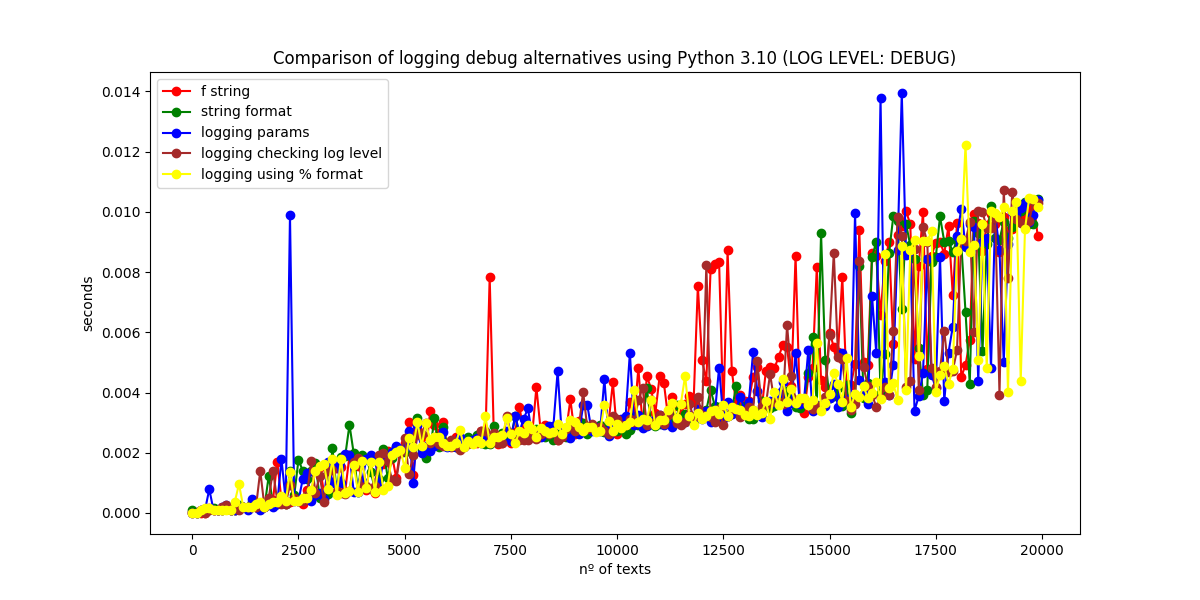
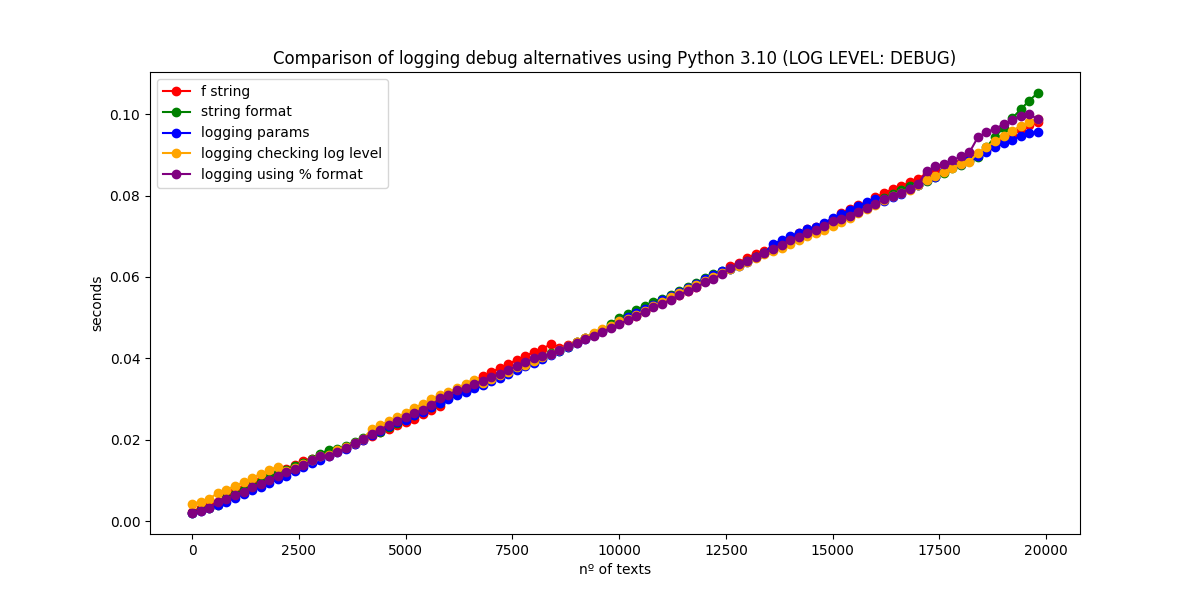
adding moving average method and ways to sum elements inside a list

diff --git a/summing_list_benchmark.py b/summing_list_benchmark.py
@@ -1,0 +1,75 @@
+import json
+import random
+from typing import List
+from functools import reduce
+
+from utils import timeit, plot, moving_average
+
+
+class MyObject:
+    def __init__(self, x):
+        self.x = x
+
+
+def generate_list_of_objects(size: int):
+    return [MyObject(random.randint(1, 100)) for _ in range(size)]
+
+
+@timeit(executions=5)
+def sum_using_for_loop(objects: List[MyObject]):
+    total = 0
+    for obj in objects:
+        total += obj.x
+    return total
+
+
+@timeit(executions=5)
+def sum_using_map(objects: List[MyObject]):
+    return sum(map(lambda obj: obj.x, objects))
+
+
+@timeit(executions=5)
+def sum_using_list_comprehension(objects: List[MyObject]):
+    return sum(obj.x for obj in objects)
+
+
+@timeit(executions=5)
+def sum_using_reduce(objects: List[MyObject]):
+    return reduce(lambda acc, obj: acc + obj.x, objects, 0)
+
+
+if __name__ == '__main__':
+    xs = []
+    for_loop_ys, map_ys, list_comprehension_ys, reduce_ys = [], [], [], []
+
+    for x in range(1, 20000, 200):
+        xs.append(x)
+        object_list = generate_list_of_objects(size=x)
+
+        for_loop_ys.append(sum_using_for_loop(objects=object_list))
+        print(sum_using_for_loop.__name__, x, for_loop_ys[-1])
+
+        map_ys.append(sum_using_map(objects=object_list))
+        print(sum_using_map.__name__, x, map_ys[-1])
+
+        list_comprehension_ys.append(sum_using_list_comprehension(objects=object_list))
+        print(sum_using_list_comprehension.__name__, x, list_comprehension_ys[-1])
+
+        reduce_ys.append(sum_using_reduce(objects=object_list))
+        print(sum_using_reduce.__name__, x, reduce_ys[-1])
+
+    results = {"xs": xs,
+               "for_loop_ys": for_loop_ys,
+               "map_ys": map_ys,
+               "list_comprehension_ys": list_comprehension_ys,
+               "reduce_ys": reduce_ys}
+
+    with open("results/python_sum_objects.json", "w") as fp:
+        json.dump(results, fp=fp)
+
+    plot(title="Comparison of summing methods using Python 3.10",
+         xs=('nº objects', xs),
+         values=[('for loop', moving_average(for_loop_ys)),
+                 ('map', moving_average(map_ys)),
+                 ('list comprehension', moving_average(list_comprehension_ys)),
+                 ('reduce', moving_average(reduce_ys))])

diff --git a/logging_ways_benchmark.py b/logging_ways_benchmark.py
@@ -2,7 +2,7 @@ import json
 import logging
 from typing import List
 
-from utils import timeit, plot
+from utils import timeit, plot, moving_average
 
 logging.basicConfig(level=logging.INFO)
 logger = logging.getLogger(__name__)
@@ -38,7 +38,7 @@ def log_checking_log_level(text: List[str]):
 if __name__ == "__main__":
     xs = []
     f_string_ys, string_format_ys, logging_params_ys, log_checking_log_level_ys, log_using_percent_ys = [], [], [], [], []
-    for size in range(1, 20000, 100):
+    for size in range(1, 20000, 200):
         xs.append(size)
         texts = ["Hello, world!" for _ in range(size)]
         f_string_ys.append(log_with_f_string(texts))
@@ -64,8 +64,8 @@ if __name__ == "__main__":
 
     plot(title="Comparison of logging debug alternatives using Python 3.10 (LOG LEVEL: INFO)",
          xs=('nº of texts', xs),
-         values=[('f string', f_string_ys),
-                 ('string format', string_format_ys),
-                 ('logging params', logging_params_ys),
-                 ('logging checking log level', log_checking_log_level_ys),
-                 ('logging using % format', log_using_percent_ys)])
+         values=[('f string', moving_average(f_string_ys)),
+                 ('string format', moving_average(string_format_ys)),
+                 ('logging params', moving_average(logging_params_ys)),
+                 ('logging checking log level', moving_average(log_checking_log_level_ys)),
+                 ('logging using % format', moving_average(log_using_percent_ys))])

diff --git a/utils.py b/utils.py
@@ -41,3 +41,11 @@ def plot(title: str, xs: Tuple[str, List[int]], values: List[Tuple[str, List[int
                 facecolor='auto', edgecolor='auto', backend=None)
 
     plt.show()
+
+
+def moving_average(data: List[int], window_size: int = 13):
+    pad_size = (window_size - 1) // 2
+    import numpy as np
+    padded_data = np.pad(data, (pad_size, pad_size), mode='edge')
+    smoothed_data = np.convolve(padded_data, np.ones(window_size) / window_size, mode='valid')
+    return list(smoothed_data)

diff --git a/README.md b/README.md
@@ -133,6 +133,50 @@ logger.debug("Using percent format: %s" % (text))
 ![Benchmark Image](figures/comparison_of_logging_debug_alternatives_using_python_3_10_(log_level__debug).png)
 ![Benchmark Image](figures/comparison_of_logging_debug_alternatives_using_python_3_10_(log_level__info).png)
 
+# Summing Methods for Custom Objects
+## Motivation
+It explores different methods for summing attributes of custom objects in Python, focusing on the summation of the x attribute of objects of the `MyObject` class. By comparing methods like using a for loop, map, list comprehensions, and functools.reduce, developers can choose the most suitable approach based on their specific use cases, optimizing code and improving program performance.
+
+## Examples
+
+### 1. Using a for-loop
+
+The for loop is a traditional method for summing attributes of objects. In this implementation, a for loop iterates over the objects, accumulating the sum.
+
+```python
+total = 0
+for obj in objects:
+    total += obj.x
+```
+
+### 2. Using map
+
+The map function provides a concise way to apply a function to each element in an iterable. This example uses map to extract the x attribute from each object and then calculates the sum.
+
+```python
+total = sum(map(lambda obj: obj.x, objects))
+```
+
+### 3. Using List Comprehension
+
+List comprehensions offer a concise and readable syntax for creating lists. This example utilizes list comprehension to sum the x attribute of objects efficiently.
+
+```python
+total = sum(obj.x for obj in objects)
+```
+
+### 4. Using functools reduce
+
+The functools.reduce function cumulatively applies a function to the items of an iterable. In this case, it's used to sum the x attribute of the objects.
+
+```python
+import functools
+total = functools.reduce(lambda acc, obj: acc + obj.x, objects, 0)
+```
+
+### Results
+![Benchmark Image](figures/comparison_of_summing_methods_using_python_3_10.png)
+
 ## Usage
 
 1. Ensure you have **Python 3.10** installed. You can download it from
@@ -148,5 +192,6 @@ logger.debug("Using percent format: %s" % (text))
    python3 cpu_bound_tasks_benchmark.py
    python3 concat_lists_benchmark.py
    python3 dataclass_vs_namedtuple_benchmark.py
-   python3 logging_ways.py
+   python3 logging_ways_benchmark.py
+   python3 summing_list_benchmark.py
    ```
